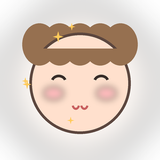
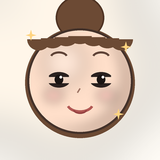
見本を3枚に整理・年齢表記を削除・お題/自由モードを2ボタン化
- 見本から20代2枚(まるおくん・ほしのこ)を削除、ペンネームの年齢も削除
- サムネ帯の年代ラベル削除・中央寄せ・見出しから「こんな」を除去
- 図鑑: row19〜23却下→新3枚をrow24〜26で承認(No.5〜7)
- お題/自由の切替を「📝今週のお題 / ✨自由に描く」の2ボタン常時表示に変更

Claude-Session: https://claude.ai/code/session_0176Y863hzXtxxEYTacpwxva

diff --git a/game.html b/game.html
@@ -185,26 +185,27 @@ h1 {
 .modal-box { background: white; border-radius: var(--radius-lg); padding: 28px 22px; max-width: 420px; width: 94%; text-align: center; box-shadow: 0 20px 60px rgba(0,0,0,0.4); max-height: 90vh; overflow-y: auto; -webkit-overflow-scrolling: touch; }
 .modal-box h2 { font-size: 1.6rem; color: var(--color-primary-dark); margin-bottom: 10px; }
 
-/* ─── お絵描き「今週のお題」カード ─── */
+/* ─── お絵描き「お題 / 自由」モードカード ─── */
 .theme-card {
   width:100%; max-width:320px; margin-bottom:10px;
   background:linear-gradient(135deg,#fff8e1,#ffe9c7); border:2px solid var(--color-accent);
-  border-radius:14px; padding:10px 14px; box-shadow:0 3px 14px rgba(243,156,18,0.25); text-align:left;
+  border-radius:14px; padding:10px 12px; box-shadow:0 3px 14px rgba(243,156,18,0.25);
 }
-.theme-card .theme-label { font-size:0.68rem; color:#c0752f; font-weight:bold; letter-spacing:.05em; }
-.theme-card .theme-text { font-size:0.92rem; color:#7a3b00; font-weight:bold; margin-top:2px; }
-.theme-card .theme-toggle {
-  margin-top:7px; display:inline-block; background:rgba(255,255,255,0.75);
-  border:1px solid currentColor; border-radius:14px; padding:3px 11px;
-  font-size:0.68rem; font-weight:bold; cursor:pointer; color:#c0752f; line-height:1.4;
+.theme-card .theme-text { font-size:0.9rem; color:#7a3b00; font-weight:bold; text-align:center; }
+.theme-mode-switch { display:flex; gap:6px; margin-bottom:7px; }
+.theme-mode-btn {
+  flex:1; padding:6px 4px; border-radius:9px; font-size:0.74rem; font-weight:bold;
+  cursor:pointer; border:1.5px solid #d9a441; background:#fff; color:#b9761f;
+  line-height:1.3; touch-action:manipulation;
 }
+.theme-mode-btn.active { background:var(--color-accent); color:#fff; border-color:var(--color-accent); }
 .theme-card.free-mode {
   background:linear-gradient(135deg,#e8f9ee,#d3f0de); border-color:#27ae60;
   box-shadow:0 3px 14px rgba(39,174,96,0.22);
 }
-.theme-card.free-mode .theme-label { color:#1e8449; }
-.theme-card.free-mode .theme-text  { color:#1e6b3a; }
-.theme-card.free-mode .theme-toggle { color:#1e8449; }
+.theme-card.free-mode .theme-text { color:#1e6b3a; }
+.theme-card.free-mode .theme-mode-btn { border-color:#7fc7a0; color:#2e8b57; }
+.theme-card.free-mode .theme-mode-btn.active { background:#27ae60; color:#fff; border-color:#27ae60; }
 
 /* ─── モード選択カードのささやかな浮遊演出 ─── */
 @keyframes mode-card-float {
@@ -559,32 +560,19 @@ h1 {
 
     <!-- お手本サンプル（運営が用意した見本・どう描けばいいか分からない人向け） -->
     <div style="background:rgba(0,0,0,0.25);border:1px dashed rgba(39,174,96,0.5);border-radius:12px;padding:10px;margin-bottom:14px;">
-      <div style="font-size:0.74rem;color:#2ecc71;font-weight:bold;margin-bottom:6px;text-align:center;">✏ こんな絵でOK！いろんな人の見本</div>
-      <div style="display:flex;gap:8px;overflow-x:auto;padding-bottom:4px;-webkit-overflow-scrolling:touch;">
+      <div style="font-size:0.74rem;color:#2ecc71;font-weight:bold;margin-bottom:6px;text-align:center;">✏ お手本サンプル</div>
+      <div style="display:flex;gap:8px;justify-content:center;flex-wrap:wrap;">
         <div style="flex:0 0 auto;width:88px;text-align:center;">
           <img src="odekaki-sample1.png" alt="にこちゃん" loading="lazy" style="width:80px;height:80px;border-radius:50%;object-fit:cover;border:2px solid #f39c12;background:#fff;display:block;margin:0 auto 3px;">
           <div style="font-size:0.68rem;color:#dfd;font-weight:bold;line-height:1.2;">にこちゃん</div>
-          <div style="font-size:0.6rem;color:#9c9;line-height:1.2;">小学生</div>
         </div>
         <div style="flex:0 0 auto;width:88px;text-align:center;">
           <img src="odekaki-sample2.png" alt="ねこすけ" loading="lazy" style="width:80px;height:80px;border-radius:50%;object-fit:cover;border:2px solid #f39c12;background:#fff;display:block;margin:0 auto 3px;">
           <div style="font-size:0.68rem;color:#dfd;font-weight:bold;line-height:1.2;">ねこすけ</div>
-          <div style="font-size:0.6rem;color:#9c9;line-height:1.2;">小学生</div>
         </div>
         <div style="flex:0 0 auto;width:88px;text-align:center;">
-          <img src="odekaki-sample3.png" alt="まるおくん" loading="lazy" style="width:80px;height:80px;border-radius:50%;object-fit:cover;border:2px solid #f39c12;background:#fff;display:block;margin:0 auto 3px;">
-          <div style="font-size:0.68rem;color:#dfd;font-weight:bold;line-height:1.2;">まるおくん</div>
-          <div style="font-size:0.6rem;color:#9c9;line-height:1.2;">20代</div>
-        </div>
-        <div style="flex:0 0 auto;width:88px;text-align:center;">
-          <img src="odekaki-sample4.png" alt="ほしのこ" loading="lazy" style="width:80px;height:80px;border-radius:50%;object-fit:cover;border:2px solid #f39c12;background:#fff;display:block;margin:0 auto 3px;">
-          <div style="font-size:0.68rem;color:#dfd;font-weight:bold;line-height:1.2;">ほしのこ</div>
-          <div style="font-size:0.6rem;color:#9c9;line-height:1.2;">20代</div>
-        </div>
-        <div style="flex:0 0 auto;width:88px;text-align:center;">
-          <img src="odekaki-sample5.png" alt="おだんごさん" loading="lazy" style="width:80px;height:80px;border-radius:50%;object-fit:cover;border:2px solid #f39c12;background:#fff;display:block;margin:0 auto 3px;">
+          <img src="odekaki-sample3.png" alt="おだんごさん" loading="lazy" style="width:80px;height:80px;border-radius:50%;object-fit:cover;border:2px solid #f39c12;background:#fff;display:block;margin:0 auto 3px;">
           <div style="font-size:0.68rem;color:#dfd;font-weight:bold;line-height:1.2;">おだんごさん</div>
-          <div style="font-size:0.6rem;color:#9c9;line-height:1.2;">30代</div>
         </div>
       </div>
       <div style="font-size:0.66rem;color:#9c9;text-align:center;margin-top:6px;line-height:1.5;">丸のなかに顔を描くだけ！じょうず・下手は気にしなくてOK😊</div>
@@ -1237,44 +1225,42 @@ let _scoringConfigReady = (async function fetchScoringConfig() {
   applyOdekakiTheme();
 })();
 
-// 「お題あり ↔ お題なしで自由に描く」を切り替える
-function toggleOdekakiFreeMode() {
-  _odekakiFreeMode = !_odekakiFreeMode;
+// 「お題モード / 自由お絵描きモード」を選ぶ（選択は端末ごとにlocalStorageで記憶）
+function setOdekakiFreeMode(free) {
+  _odekakiFreeMode = !!free;
   try { localStorage.setItem('omanbo_odekaki_free_v1', _odekakiFreeMode ? '1' : '0'); } catch(e) { /* 保存失敗は無視 */ }
   applyOdekakiTheme();
 }
 
 // お絵描きモードのお題カード表示
 // ・お題が未設定なら非表示
-// ・お題ありでも「お題なしで自由に描く」に切り替え可能（描く内容に制限はない）
+// ・「今週のお題」「自由に描く」の2ボタンを常に並べて表示し、選択中を強調する
+//   （描く内容に制限はなく、自由モードはお題を気にせず好きなものを描いてよい）
 function applyOdekakiTheme() {
   const el = document.getElementById('odekaki-theme');
   if (!el) return;
   if (!_weeklyTheme) { el.style.display = 'none'; return; }
 
-  el.className = _odekakiFreeMode ? 'theme-card free-mode' : 'theme-card';
+  const free = _odekakiFreeMode;
+  el.className = free ? 'theme-card free-mode' : 'theme-card';
   el.innerHTML = '';
 
-  const label = document.createElement('div');
-  label.className = 'theme-label';
+  const sw = document.createElement('div');
+  sw.className = 'theme-mode-switch';
+  [['📝 今週のお題', false], ['✨ 自由に描く', true]].forEach(function(opt) {
+    const b = document.createElement('button');
+    b.type = 'button';
+    b.className = 'theme-mode-btn' + (opt[1] === free ? ' active' : '');
+    b.textContent = opt[0];
+    b.addEventListener('click', function() { setOdekakiFreeMode(opt[1]); });
+    sw.appendChild(b);
+  });
+
   const text = document.createElement('div');
   text.className = 'theme-text';
-  const toggle = document.createElement('button');
-  toggle.type = 'button';
-  toggle.className = 'theme-toggle';
-  toggle.addEventListener('click', toggleOdekakiFreeMode);
+  text.textContent = free ? '好きなものを自由に描いてOK！' : _weeklyTheme;
 
-  if (_odekakiFreeMode) {
-    label.textContent = '🎨 自由お絵描きモード';
-    text.textContent  = 'お題は気にせず、好きなものを描いてOK！';
-    toggle.textContent = '📌 今週のお題を見る';
-  } else {
-    label.textContent = '🎨 今週のお題';
-    text.textContent  = _weeklyTheme;
-    toggle.textContent = '🎲 お題なしで自由に描く';
-  }
-
-  el.append(label, text, toggle);
+  el.append(sw, text);
   el.style.display = 'block';
 }
 

diff --git a/CHANGELOG.md b/CHANGELOG.md
@@ -797,3 +797,25 @@ const multipliers = { hard: 3.8, normal: 5.46 };
 **admin.html は対象外**（承認・却下操作があるため保護を維持）。
 
 **未対応:** GitHub Pages への push で反映。
+
+---
+
+### [2026-09-06] 見本サンプルを3枚に整理・年齢表記を削除・お題/自由モードを2ボタン化
+
+同日の追加依頼をまとめて反映。
+
+**見本サンプル（お友達図鑑＋モード選択画面）:**
+- 20代の2枚（まるおくん・ほしのこ）を削除。残すのは にこちゃん・ねこすけ・おだんごさん の3枚
+- 作者ペンネームから年齢を削除（そうた（8さい）→そうた、みなみ（7さい）→みなみ、あや（30代）→あや）
+- モード選択画面のサムネ帯：年代ラベル（小学生/20代/30代）を削除し名前のみに。3枚なので横スクロールをやめて中央寄せ
+- 見出しを「✏ こんな絵でOK！お手本サンプル」→「✏ お手本サンプル」に（「こんな」表現を外す）
+- 画像ファイルは `odekaki-sample1〜3.png` に集約（`odekaki-sample4/5.png` は削除）
+- 本番GAS：`drawings` row 19〜23 を却下、新3枚を row 24〜26 に投稿・承認（図鑑 No.5〜7）
+
+**お絵描きのお題/自由モード切替を2ボタン化（`game.html`）:**
+- 旧: お題カードに切替リンク1つ（分かりにくいという指摘）
+- 新: `.theme-mode-switch` に「📝 今週のお題」「✨ 自由に描く」の2ボタンを常時並べて表示、選択中をハイライト（お題=オレンジ / 自由=グリーン）。下に選択中の内容（お題文 or 「好きなものを自由に描いてOK！」）を表示
+- 関数 `toggleOdekakiFreeMode()` → `setOdekakiFreeMode(free)` に変更。旧CSS（`.theme-label` / `.theme-toggle`）は削除
+- 選択の localStorage 記憶（`omanbo_odekaki_free_v1`）は継続
+
+**未対応:** GitHub Pages への push で反映。
